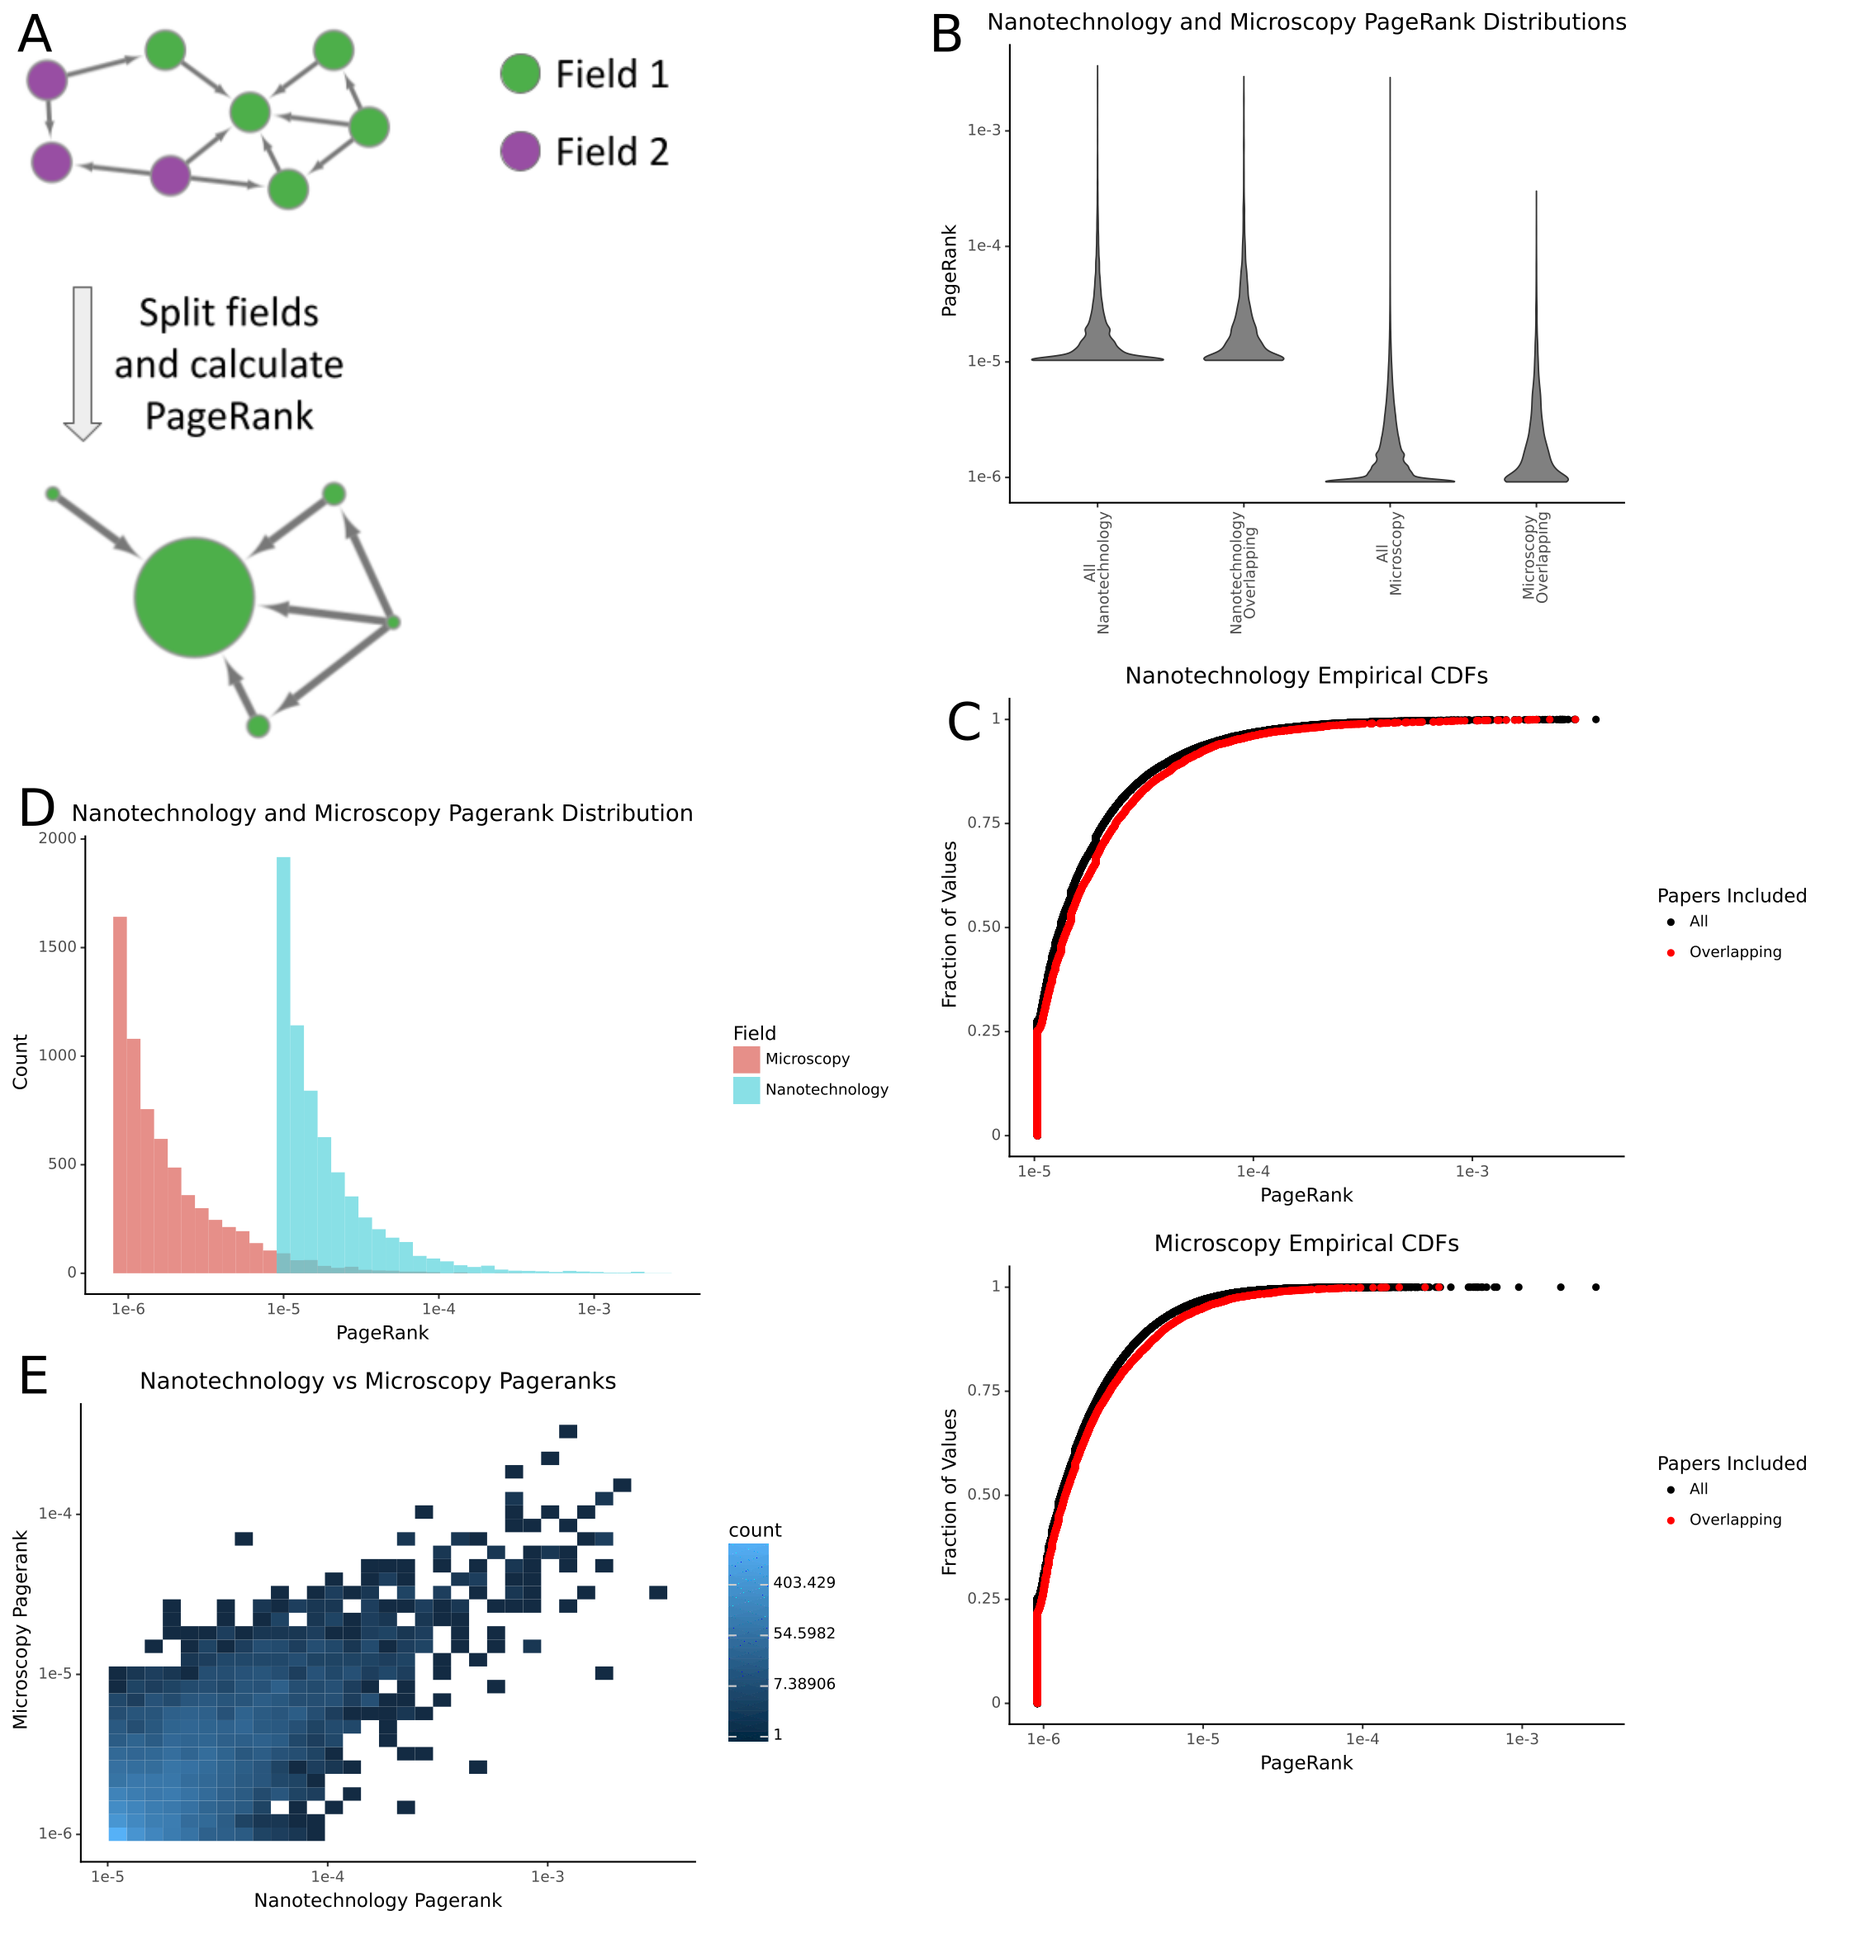
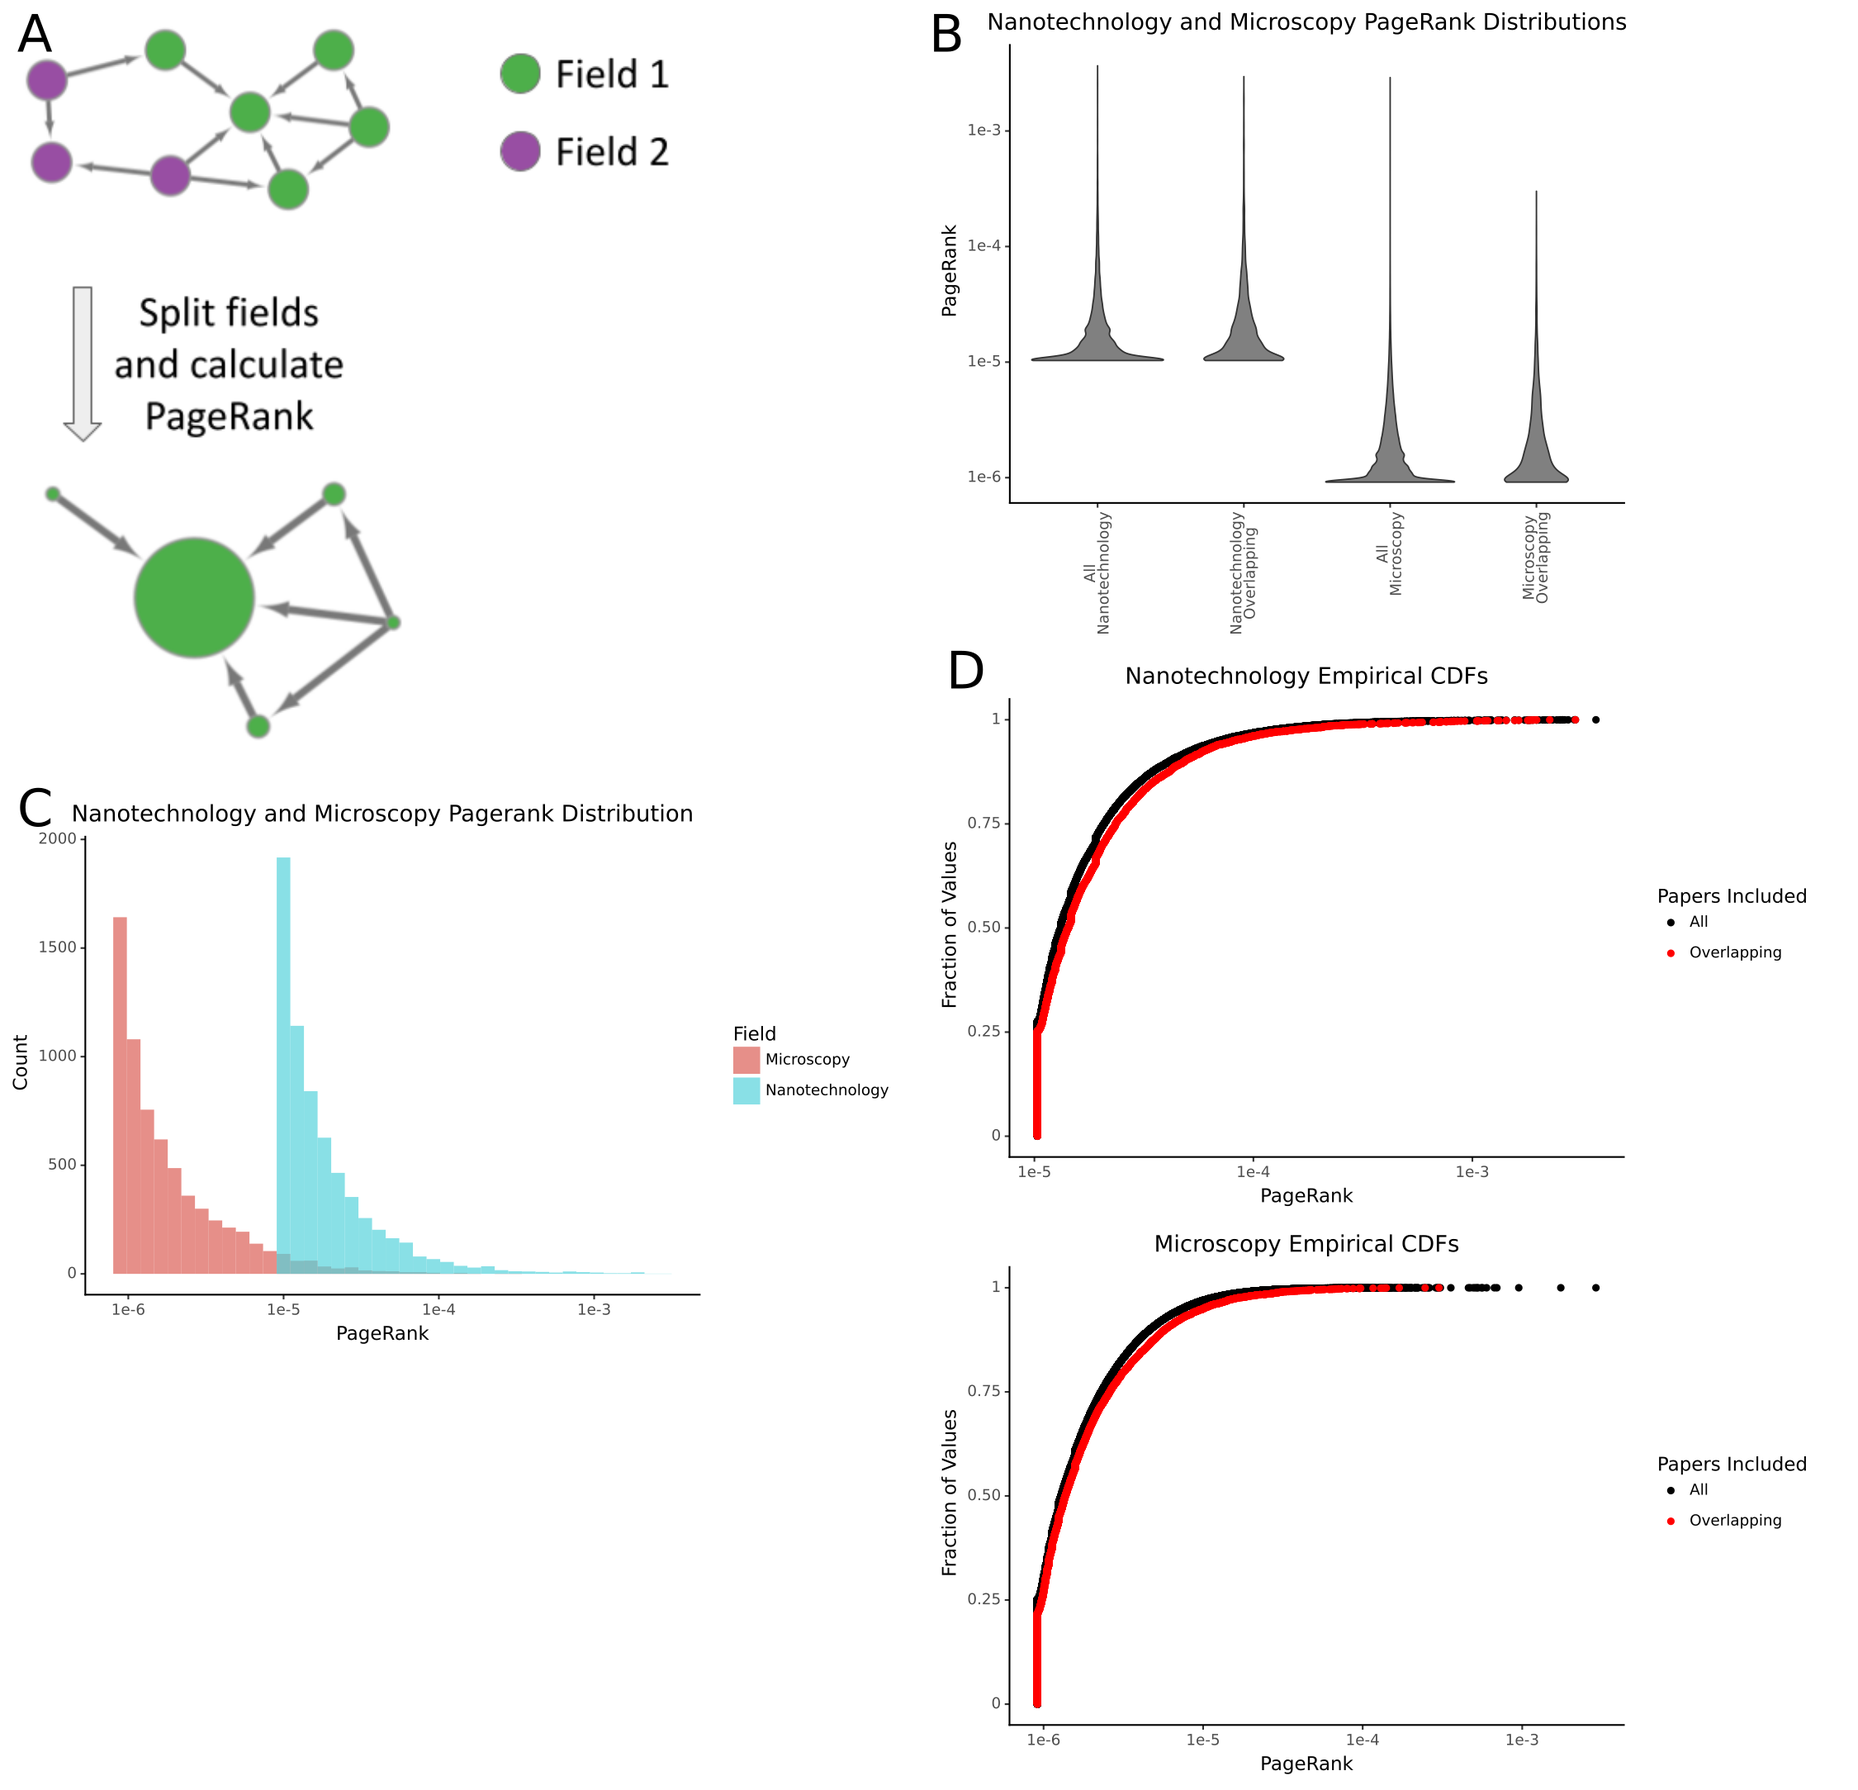
Update distributiong figure to remove panel E [-39 words]

diff --git a/content/03.results.md b/content/03.results.md
@@ -8,7 +8,7 @@ We calculated a field-specific PageRank-based score for each journal as the medi
 We first sought to understand the extent to which PageRank replicated journal ranking differences across fields.
 
 To begin, we compared the differences in ranking between the top fifty journals in nanotechnology and their corresponding ranks in microscopy.
-While the ranks were correlated (TODO:CORRELATION STAT) there was a great deal of variance, especially for journals outside the top 20 in nanotechnology (Fig. @fig:journal B).
+While the ranks were correlated (r=.75) there was a great deal of variance, especially for journals outside the top 20 in nanotechnology (Fig. @fig:journal B).
 We then examined the top-ranked journal in each of our 45 fields to determine whether the top-ranking journal was consistent across fields (Fig. @fig:journal C).
 We found that the most commonly top-ranked journal was *Science*.
 This was unsurprising, given that it tends to rank highly among global journal-level metrics such as eigenfactor.
@@ -36,8 +36,7 @@ All plots restrict the set of journals to those with at least 50 papers in the d
 We split the citation network into its component fields and calculated the PageRank for each article (Fig. @fig:distribution A).
 We examined the distribution of PageRanks across fields and found that they differed greatly (Fig. @fig:distribution B).
 We first examined whether the citation practices of fields contributed to importance differences.
-Investigating manuscripts that appeared in pairs of fields, we found that the distribution of importances matched the network more than that of the alternative topic area of the manuscript (Fig. @fig:distribution B, C).
-Given the differences in distributions in articles shared by these fields (Fig. @fig:distribution D), we found it difficult to determine whether correspondence between fields was random or due to different degrees of interest in certain articles (Fig. @fig:distribution E). <!-- I am not sure I get what you're trying to say here about E - aren't you going to go into this for the next section? I also don't get how the ECDF is getting you to random or not. What about dropping panel E here? It feels like that might be the cleanest way to avoid having to get into things too early and confusing your reader. -->
+Investigating manuscripts that appeared in pairs of fields, we found that the distribution of importances matched the network more than that of the alternative topic area of the manuscript (Fig. @fig:distribution B, C, D).
 
 ![ 
 Differences in the distribution of PageRanks between fields.
